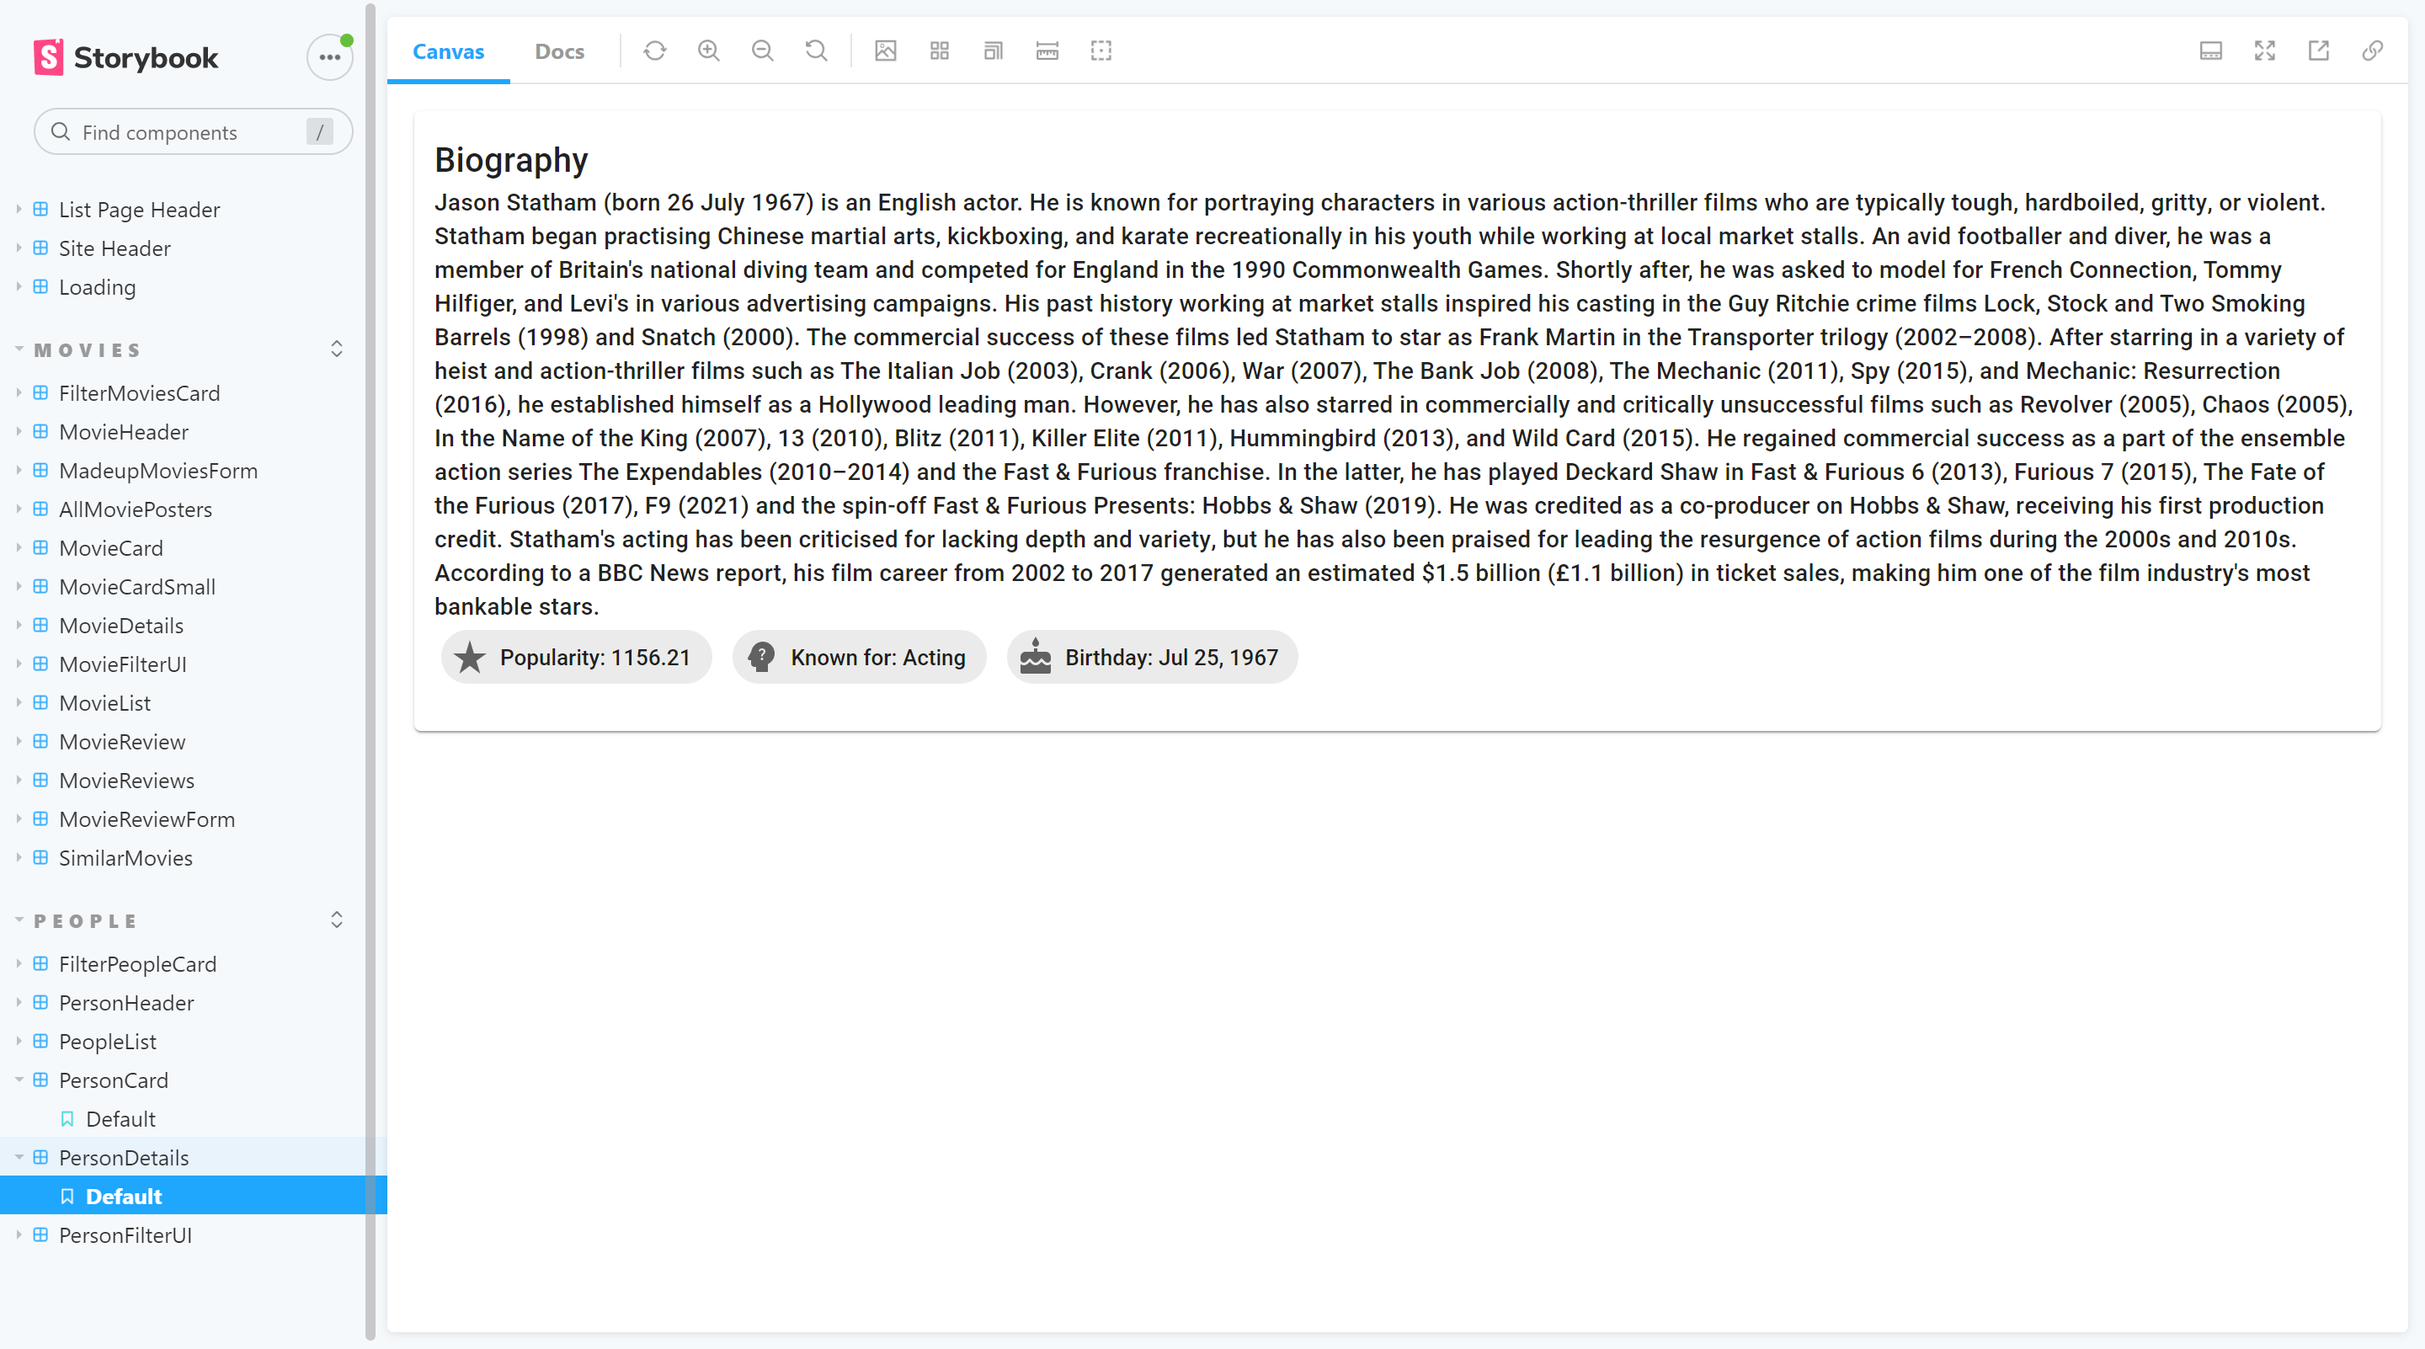
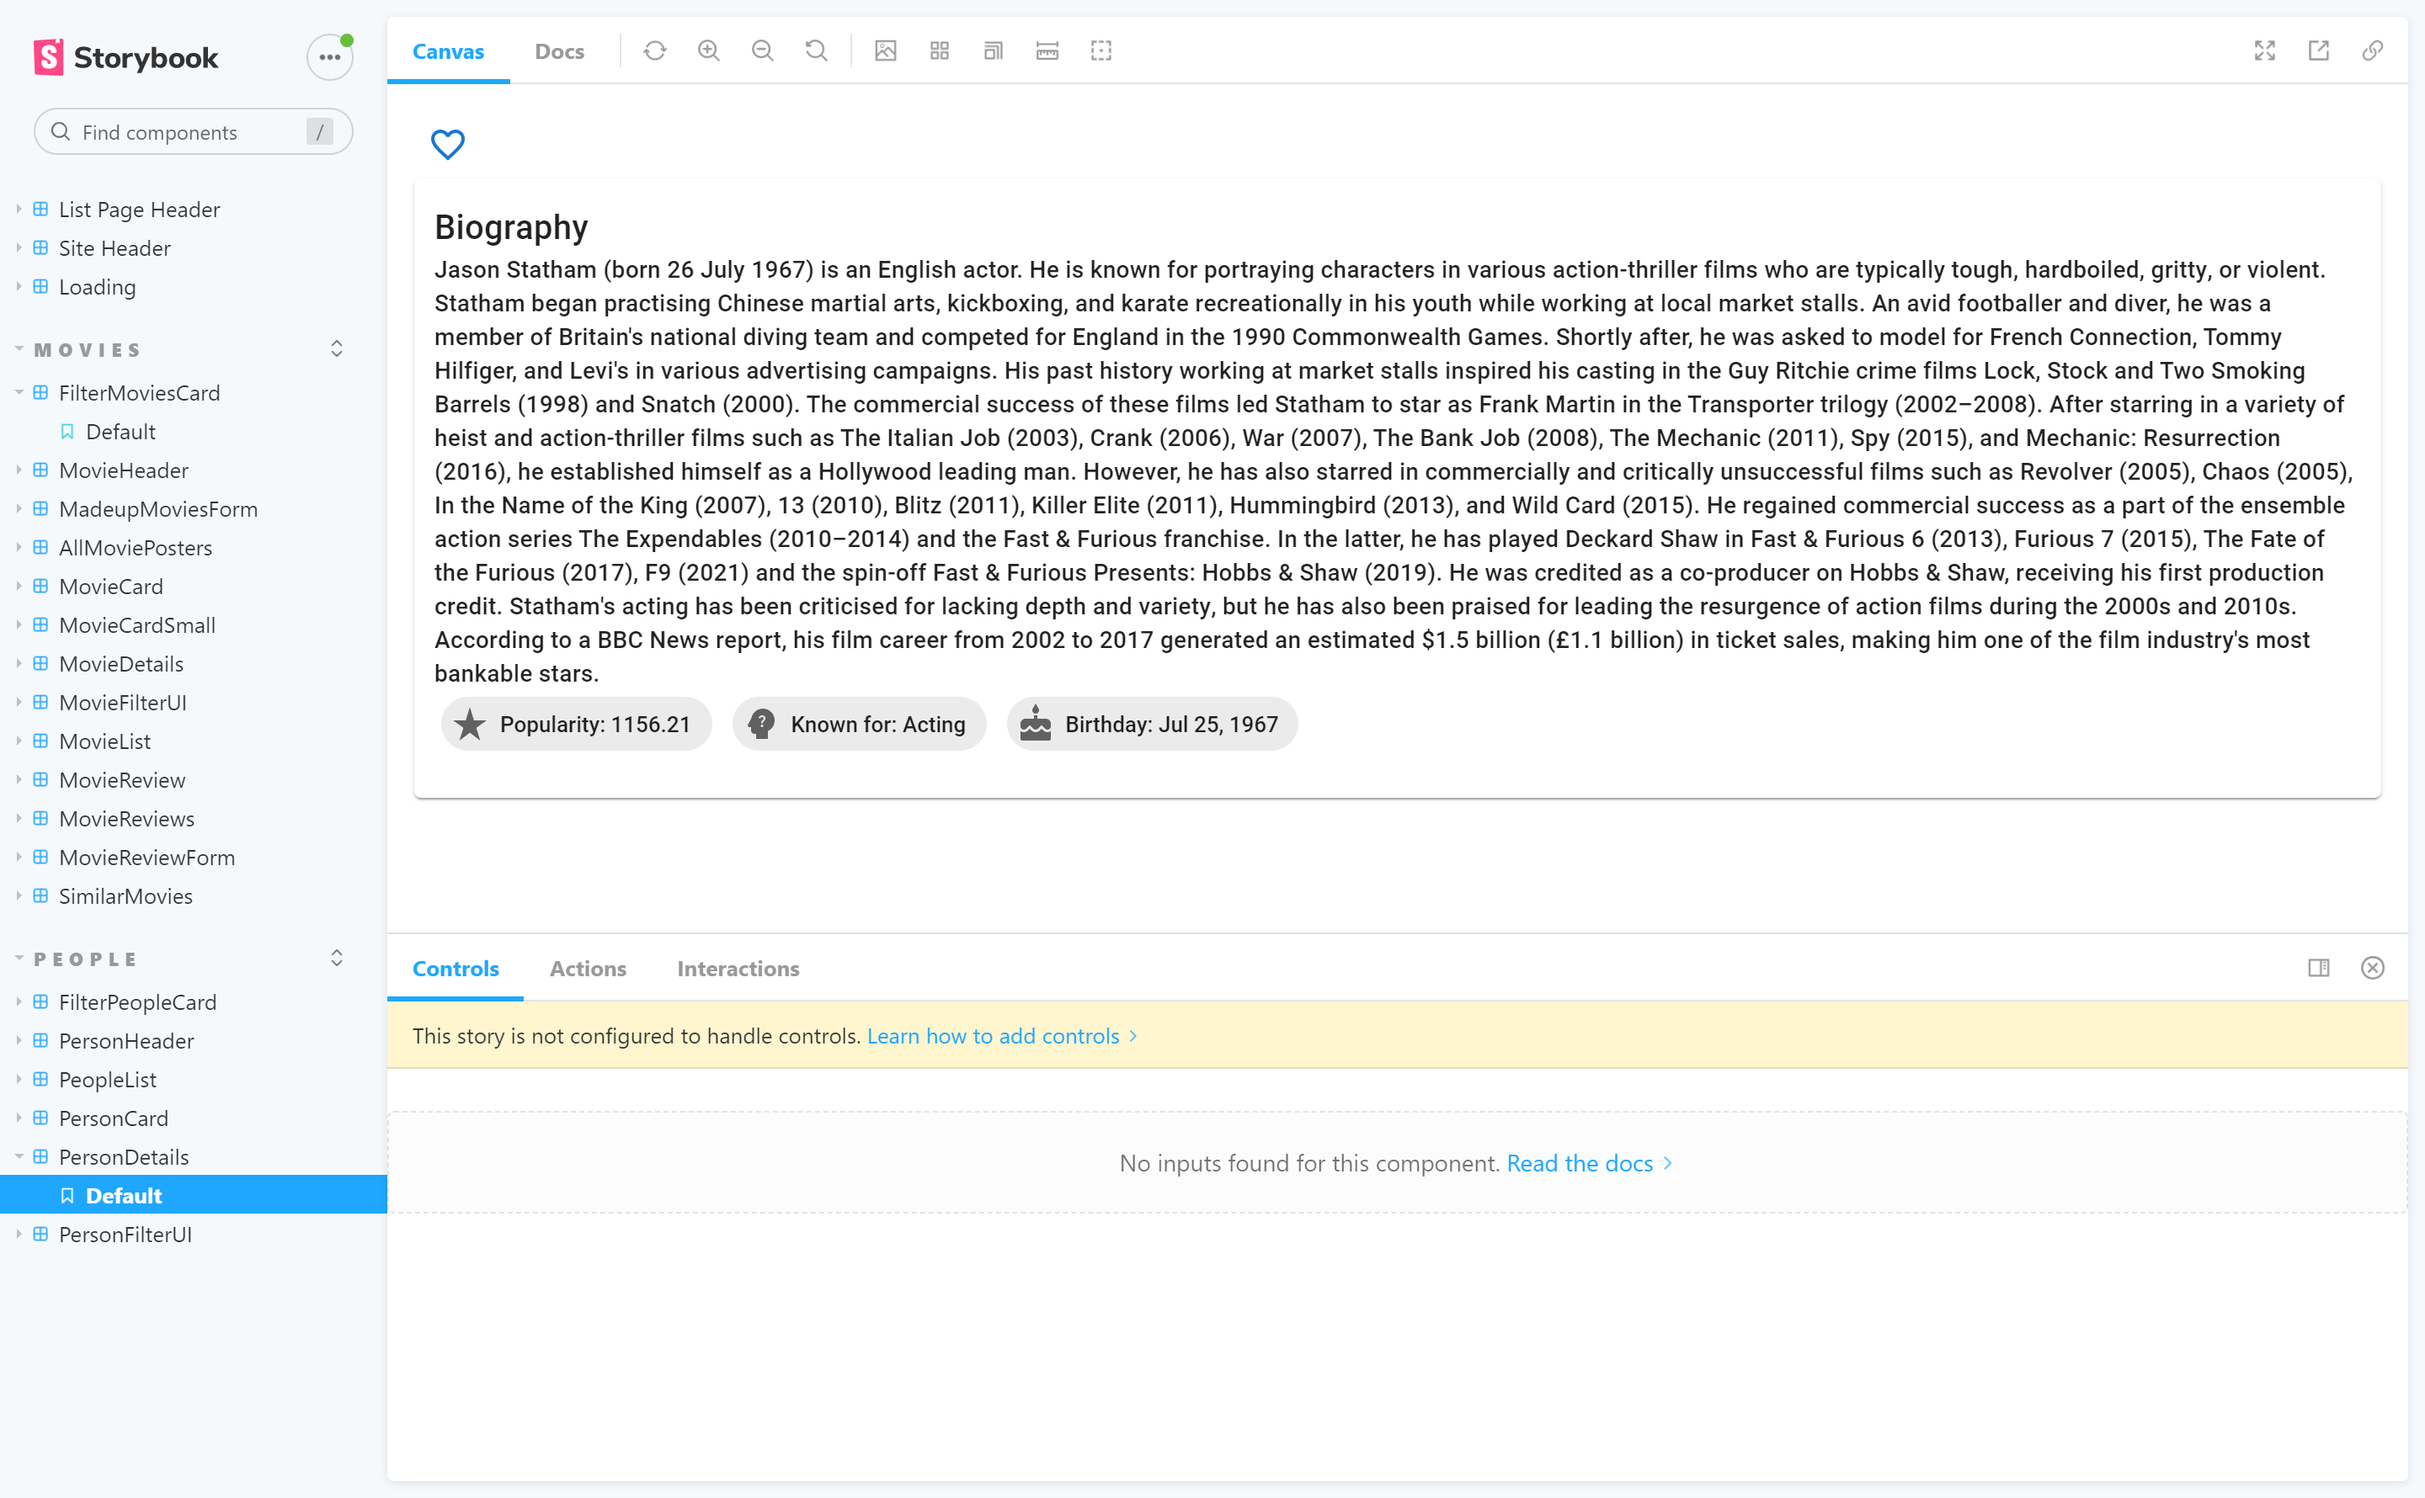
Added some more screenshots.  Edited README.

diff --git a/README.md b/README.md
@@ -80,7 +80,7 @@ __Name:__ Joshua Miron
 
 ![][Made_up_movie_form]
 
-> Opted for a different design for displaying the save made up movie back to the user.  The made up movies can be deleted.
+> I opted for a different design for displaying the save made up movie back to the user.  The made up movies can be deleted.
 
 ![][Made_up_movie_page]
 
@@ -110,6 +110,13 @@ __Name:__ Joshua Miron
 > Similar to movies, people can be favorited in any view and there is a favourites page.
 
 ![][People_Favourite]
+
+#### Person Details
+
+> A person details page was added. A person can be tagged as a favorite on the details page.
+> If the endpoint returns a homepage for the person, it is appended as a link to the end of the Overview, opening the page in a new browser tab.
+
+![][Person_Details]
 
 ## Storybook.
 
